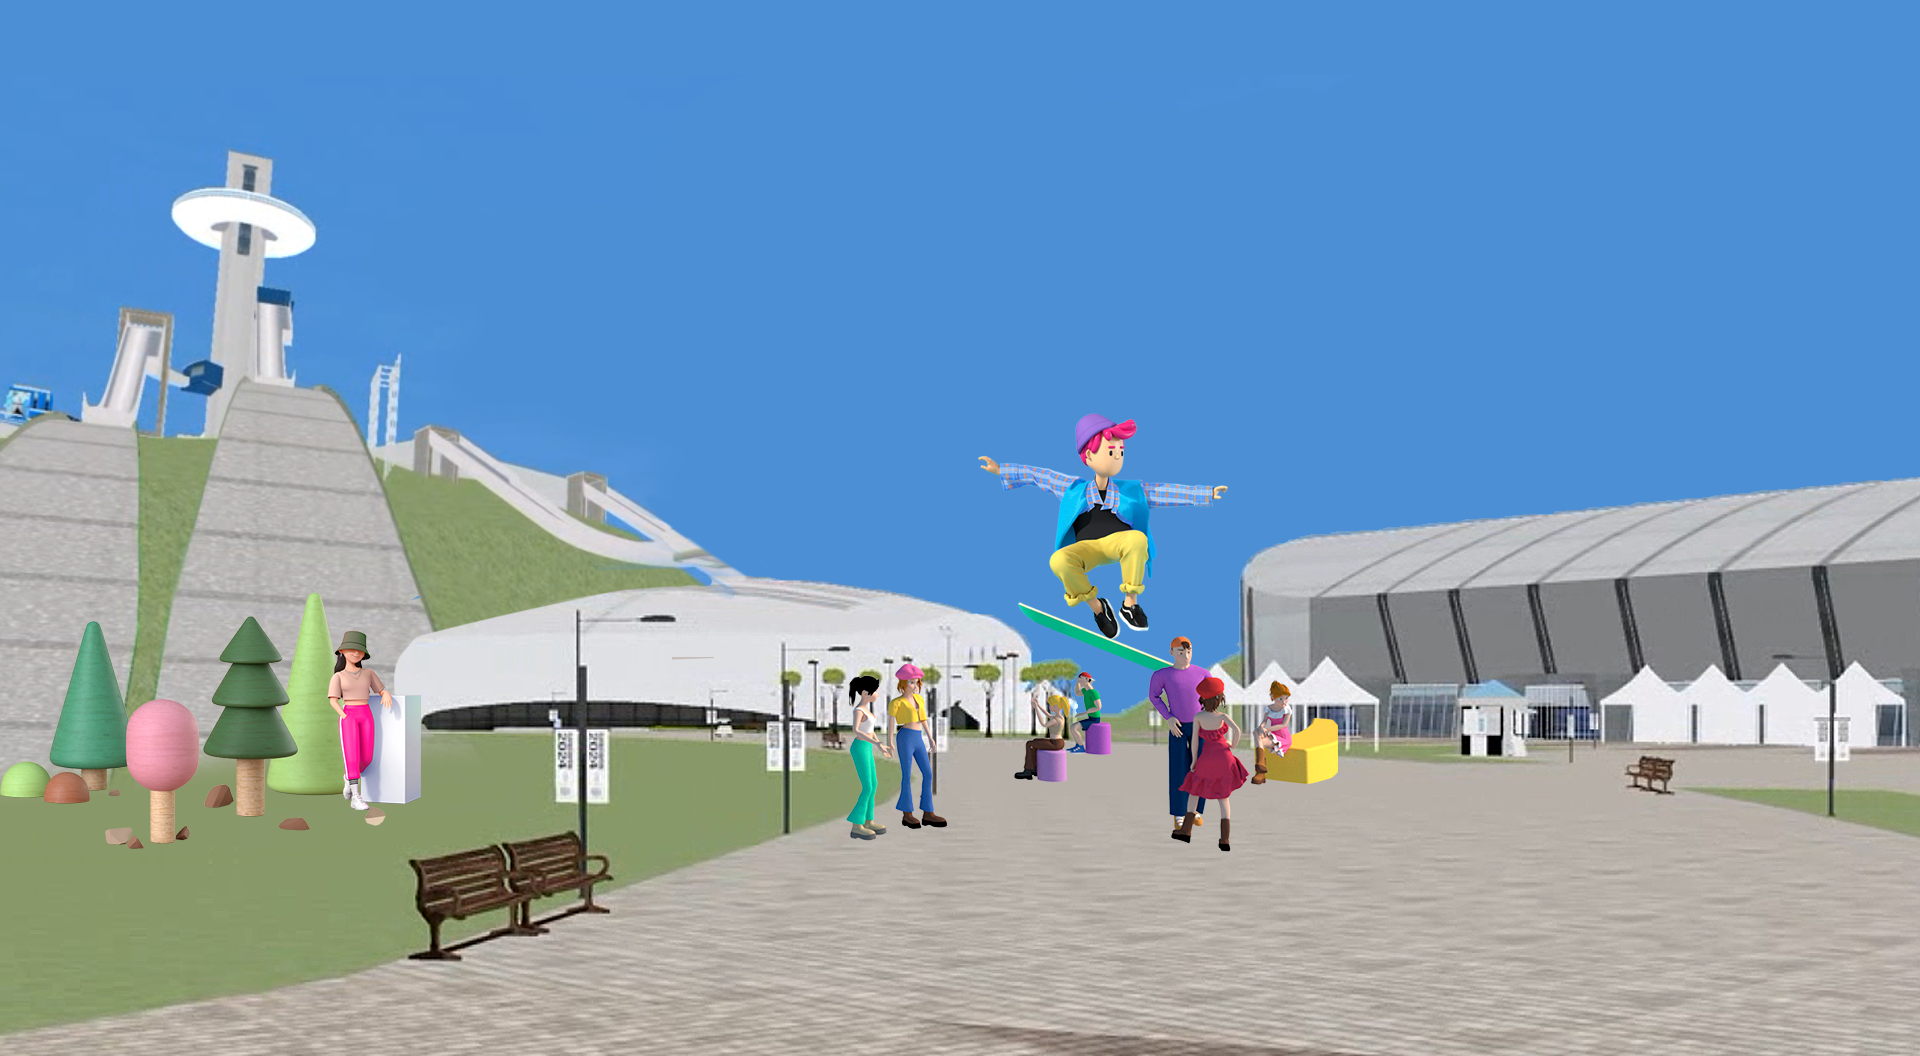
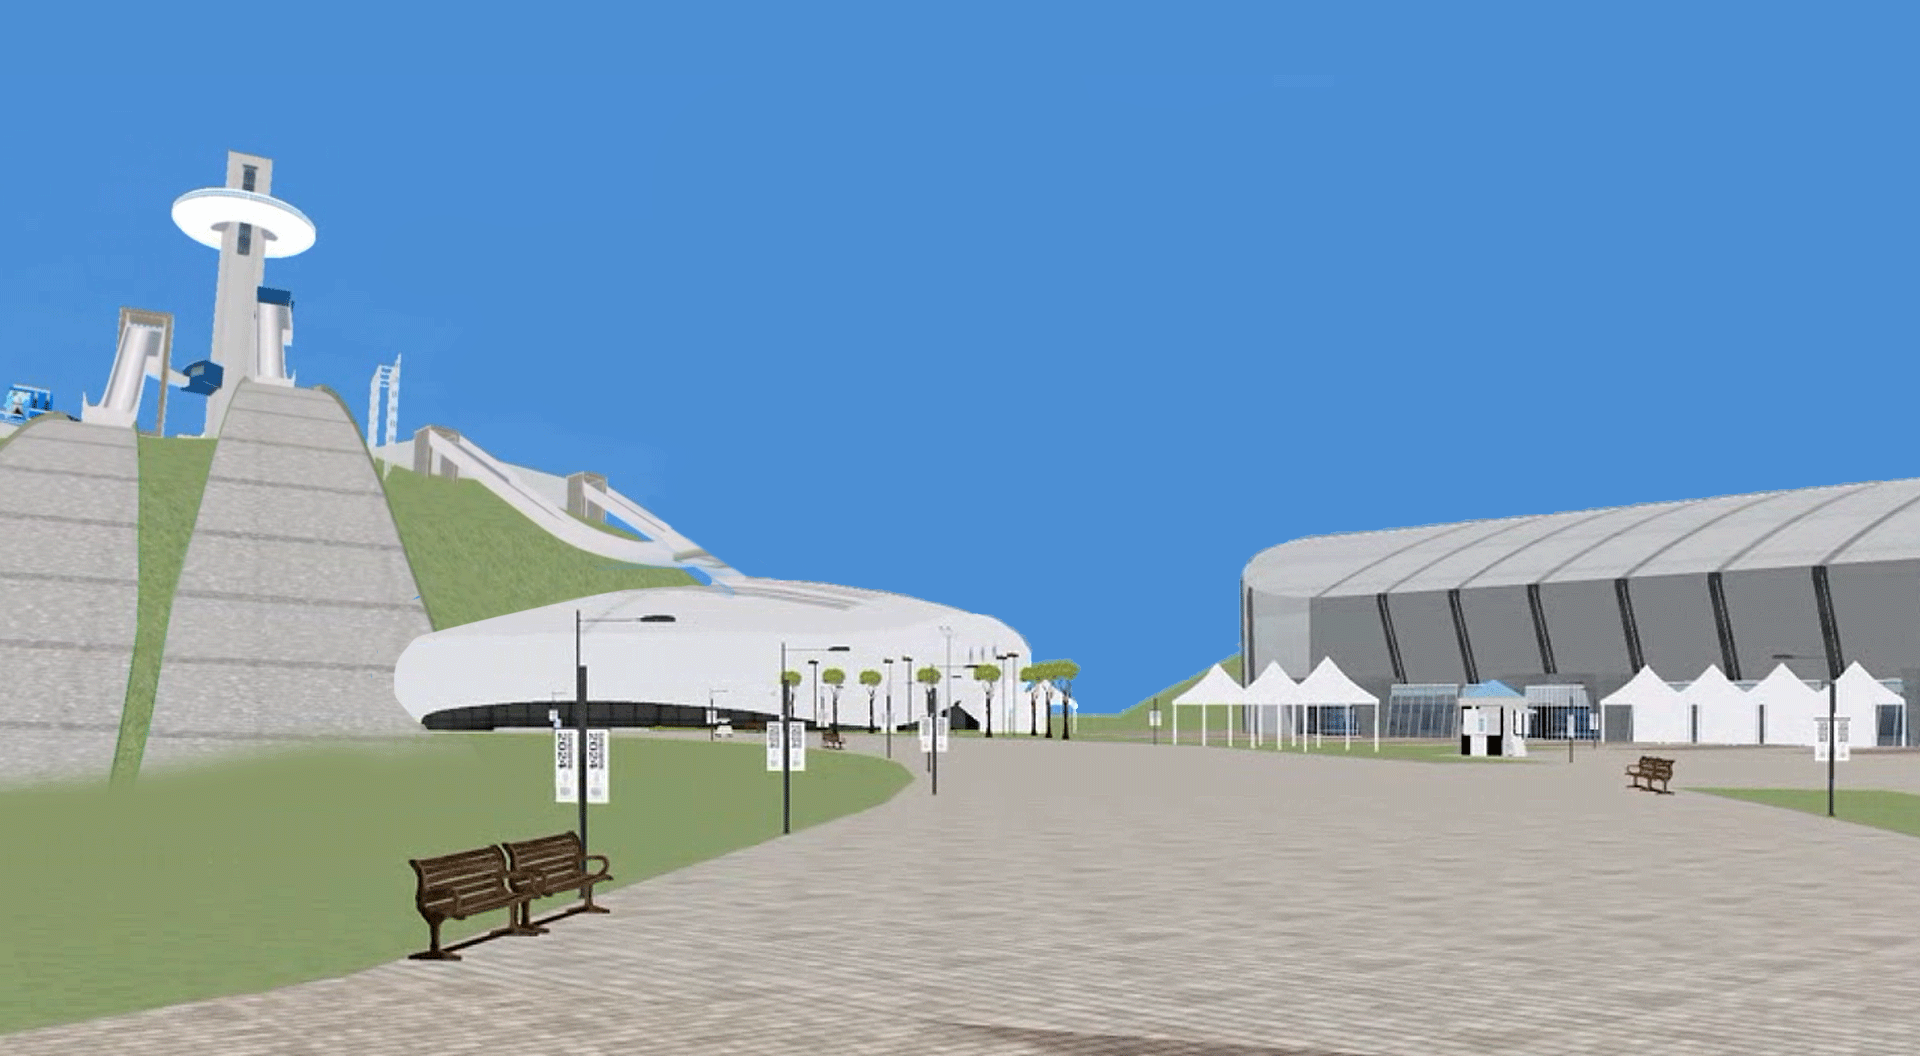
Add files via upload

Changed region(s): [[0.5, 0.375, 0.7188, 0.8125], [0.0, 0.5625, 0.2188, 0.8125], [0.4375, 0.625, 0.5, 0.8125]]

diff --git a/meta/index.html b/meta/index.html
@@ -45,13 +45,40 @@
 				<div class="visual_img">
 					<img src="/page/meta/images/main/main_visual_full.png" alt="">
 					<div class="visual_item_wrap">
-						<div class="visual_item_01"><img src="/page/meta/images/main/visual_item_03_00_full.png" alt=""></div>
-						<div class="visual_item_02"><img src="/page/meta/images/main/visual_item_03_01_full.png" alt=""></div>
-						<div class="visual_item_03"><img src="/page/meta/images/main/visual_item_03_02_full.png" alt=""></div>
-						<div class="visual_item_04"><img src="/page/meta/images/main/visual_item_03_03_full.png" alt=""></div>
-						<div class="visual_item_05"><img src="/page/meta/images/main/visual_item_05_full.png" alt=""></div>
-						<div class="visual_item_06"><img src="/page/meta/images/main/visual_item_06_full.png" alt=""></div>
-						<div class="visual_item_07"><img src="/page/meta/images/main/visual_item_07_full.png" alt=""></div>
+						<div class="visual_box_01">
+							<div class="visual_item_01"><img src="/page/meta/images/main/visual_item_01_full.png" alt=""></div>
+						</div>
+						<div class="visual_box_02">
+							<div class="visual_item_02"><img src="/page/meta/images/main/visual_item_02_full.png" alt=""></div>
+						</div>
+						<div class="visual_box_03">
+							<div class="visual_item_03_01"><img src="/page/meta/images/main/visual_item_03_00_full.png" alt=""></div>
+							<div class="visual_item_03_02"><img src="/page/meta/images/main/visual_item_03_01_full.png" alt=""></div>
+							<div class="visual_item_03_03"><img src="/page/meta/images/main/visual_item_03_02_full.png" alt=""></div>
+							<div class="visual_item_03_04"><img src="/page/meta/images/main/visual_item_03_03_full.png" alt=""></div>
+						</div>
+						<div class="visual_box_04">
+							<div class="visual_item_04"><img src="/page/meta/images/main/visual_item_04_full.png" alt=""></div>
+						</div>
+						<div class="visual_box_05">
+							<div class="visual_item_05_01"><img src="/page/meta/images/main/visual_item_05_01_full.png" alt=""></div>
+							<div class="visual_item_05_02"><img src="/page/meta/images/main/visual_item_05_02_full.png" alt=""></div>
+							<div class="visual_item_05_03"><img src="/page/meta/images/main/visual_item_05_03_full.png" alt=""></div>
+						</div>
+						<div class="visual_box_06">
+							<div class="visual_item_06"><img src="/page/meta/images/main/visual_item_06_full.png" alt=""></div>
+						</div>
+						<div class="visual_box_07">
+							<div class="visual_item_07"><img src="/page/meta/images/main/visual_item_07_full.png" alt=""></div>
+						</div>
+						<div class="visual_box_08">
+							<div class="visual_item_08"><img src="/page/meta/images/main/visual_item_08_full.png" alt=""></div>
+						</div>
+						<div class="visual_box_08">
+							<div class="visual_item_09_01"><img src="/page/meta/images/main/visual_item_09_01_full.png" alt=""></div>
+							<div class="visual_item_09_02"><img src="/page/meta/images/main/visual_item_09_02_full.png" alt=""></div>
+							<div class="visual_item_09_03"><img src="/page/meta/images/main/visual_item_09_03_full.png" alt=""></div>
+						</div>
 					</div>
 				</div>
 				<div class="main_tab">

diff --git a/meta/css/index.css b/meta/css/index.css
@@ -41,13 +41,17 @@
 
 #visual .visual_item_wrap{position:absolute;top:0;right:0;bottom:0;left:0;}
 #visual .visual_item_wrap [class*="visual_item_"]{position:absolute;height:100%;}
-#visual .visual_item_01{animation: jump 5s ease 0s infinite alternate; margin-top: 0}
-#visual .visual_item_02{animation: fade01 5s ease 0s infinite alternate; opacity:0;}
-#visual .visual_item_03{animation: fade02 5s ease 0s infinite alternate; opacity:0;}
-#visual .visual_item_04{animation: fade03 5s ease 0s infinite alternate; opacity:0;}
-#visual .visual_item_05{animation: cloud01 1.5s linear 0s infinite alternate; margin-top: 0;}
-#visual .visual_item_06{animation: cloud02 2s linear 0s infinite alternate; margin-top: 0;}
-#visual .visual_item_07{animation: cloud03 1.7s linear 0s infinite alternate; margin-top: 0;}
+#visual .visual_item_03_01{animation: jump 5s ease 0s infinite alternate; margin-top: 0}
+#visual .visual_item_03_02{animation: fade01 5s ease 0s infinite alternate; opacity:0;}
+#visual .visual_item_03_03{animation: fade02 5s ease 0s infinite alternate; opacity:0;}
+#visual .visual_item_03_04{animation: fade03 5s ease 0s infinite alternate; opacity:0;}
+#visual .visual_item_04{z-index:10;}
+#visual .visual_item_05_01{animation: cloud01 1.5s linear 0s infinite alternate; margin-top: 0;}
+#visual .visual_item_05_02{animation: cloud02 2s linear 0s infinite alternate; margin-top: 0;}
+#visual .visual_item_05_03{animation: cloud03 1.7s linear 0s infinite alternate; margin-top: 0;}
+
+#visual .visual_item_09_02{z-index:10;animation: scaleup 5s ease 0s infinite alternate;margin:0 0 0 200px;transform:scale(0);transform-origin:bottom right;opacity:0;}
+#visual .visual_item_09_03{transform: translateY(-100px);animation: moveup 5s ease 0s infinite alternate;}
 /* #visual .visual_item_03{position:absolute;top:53.2%;left:50%;margin-left:-31.5%;}
 #visual .visual_item_05{position:absolute;top:13.3%;left:50%;margin-left:-48.8%;animation: cloud01 1.5s linear 0s infinite alternate; margin-top: 0;}
 #visual .visual_item_06{position:absolute;top:14.5%;left:50%;margin-left:25.6%;animation: cloud02 2s linear 0s infinite alternate; margin-top: 0;}
@@ -78,6 +82,12 @@
     80% {opacity:0;}
 	100% {opacity:1;}
 }
+
+@keyframes cloud01 {
+	0% {margin-top: -5x;}
+	100% {margin-top: 5px;}
+}
+
 @keyframes cloud02 {
 	0% {margin-top: -7px;}
 	100% {margin-top: 7px;}
@@ -86,6 +96,19 @@
 @keyframes cloud03 {
 	0% {margin-top: -3px;}
 	100% {margin-top: 3px;}
+}
+
+@keyframes scaleup {
+	0% {transform:scale(0);margin:0 0 0 200px; opacity:0;}
+    35%{transform:scale(0);margin:0 0 0 200px; opacity:0;}
+    45% {transform:scale(1); margin:0;opacity:1;}
+    100% {transform:scale(1); margin:0;opacity:1;}
+}
+
+@keyframes moveup {
+	0% {transform: translateY(500px);}
+    20% {transform: translateY(0);}
+	100% {transform: translateY(0);}
 }
 
 @media (max-width:1399px) {
